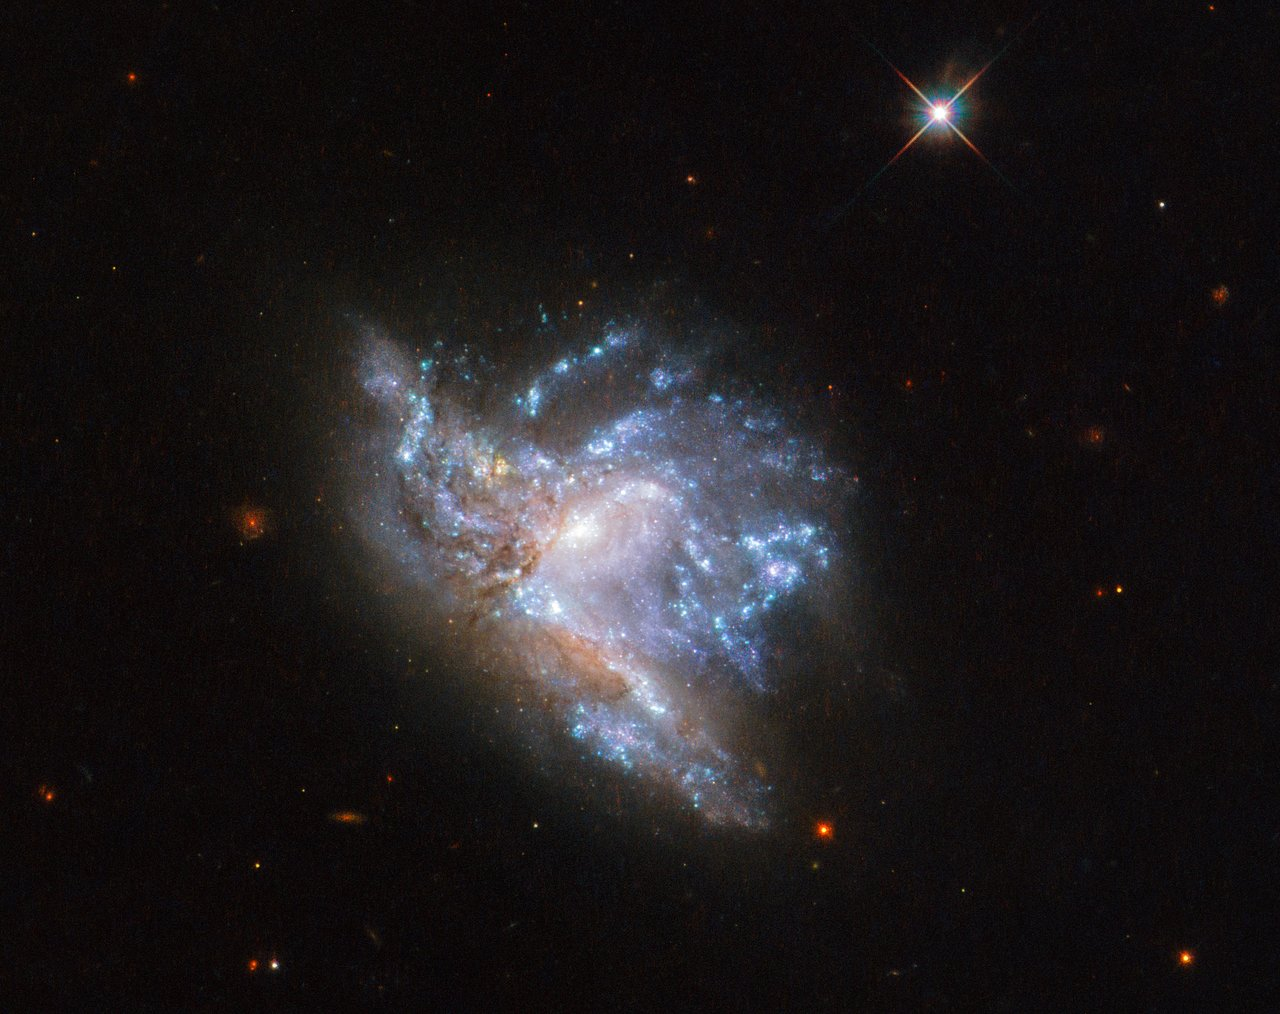
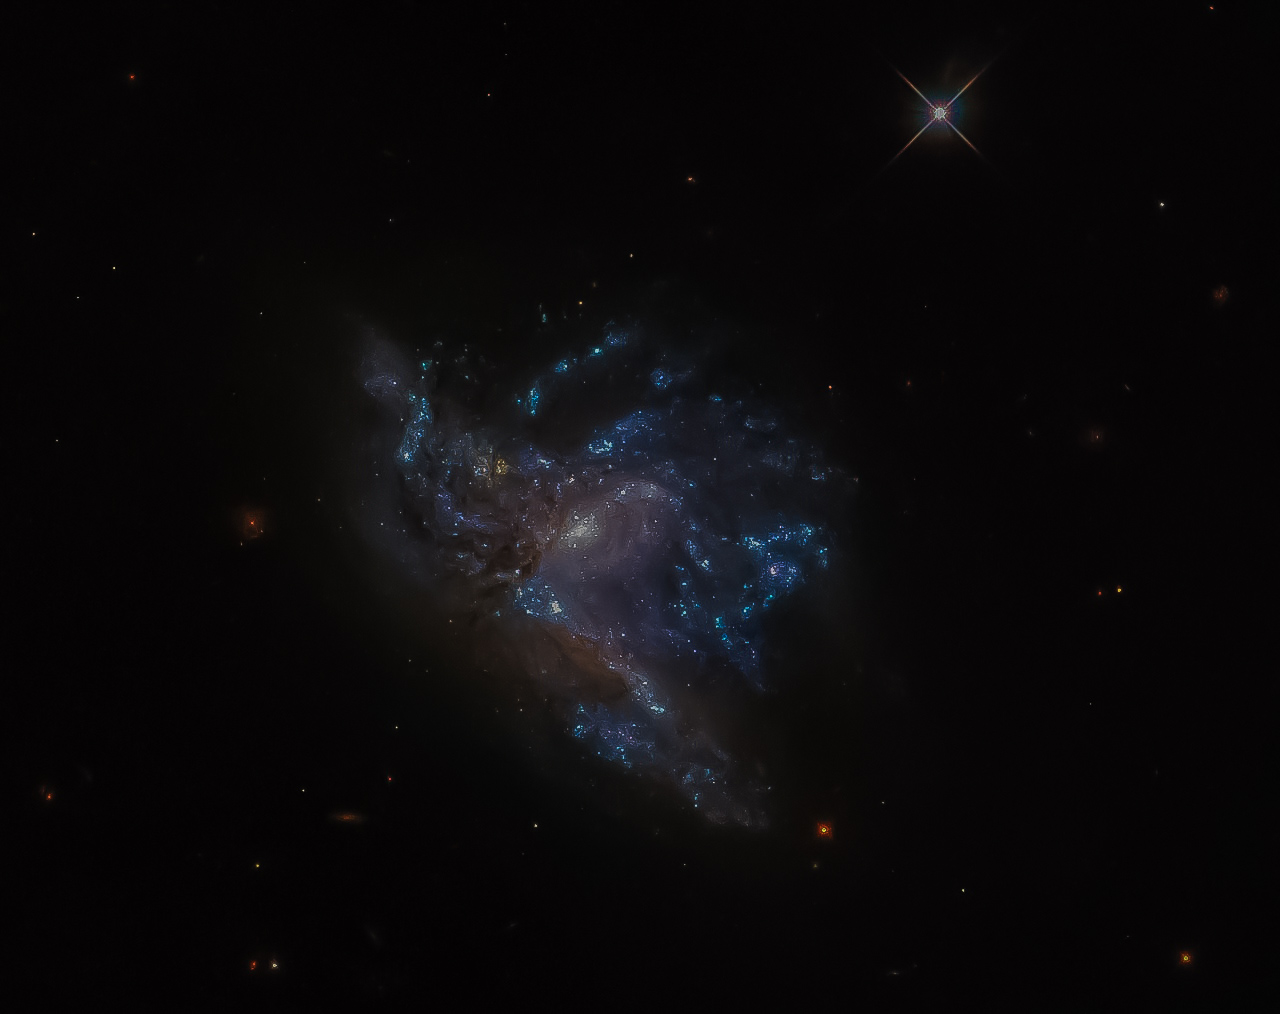
make galaxy images better, fix bug on arriving fleet calculation, fix visual style of gamefield

diff --git a/src/client/reducers/game.reducers.ts b/src/client/reducers/game.reducers.ts
@@ -48,7 +48,7 @@ export const defaultState: GameState = {
 };
 
 export const getArrivingPlayerFleets = (fleets: Fleet[][], activePlayer: Player): ArrivingFleet[] => {
-  return fleets.reduce((acc: ArrivingFleet[], fleetList: Fleet[], index: number): ArrivingFleet[] => {
+  return fleets.reduce((acc: ArrivingFleet[], fleetList: Fleet[] = [], index: number): ArrivingFleet[] => {
     fleetList.forEach((fleet: Fleet): void => {
       if (fleet.owner.id === activePlayer.id) {
         acc.push({

diff --git a/src/client/reducers/__tests__/game.reducers.test.ts b/src/client/reducers/__tests__/game.reducers.test.ts
@@ -26,6 +26,9 @@ describe("game reducer", (): void => {
       amount: 10,
       arrivingIn: 1
     });
+    // should not fail
+    const brokenFleets = getArrivingPlayerFleets([], player1);
+    expect(brokenFleets).toHaveLength(0);
   });
 
   it("Properly handling exception on starting game with invalid options", (): void => {

diff --git a/src/client/view/GameField.tsx b/src/client/view/GameField.tsx
@@ -27,7 +27,7 @@ const GameField = (): ReactElement | null => {
     return null;
   }
 
-  const fillColor = hexToRgba(theme.colors.background, "0.65");
+  const fillColor = hexToRgba(theme.colors.background, "0.325");
 
   return (
     <div ref={wrapperRef}>
